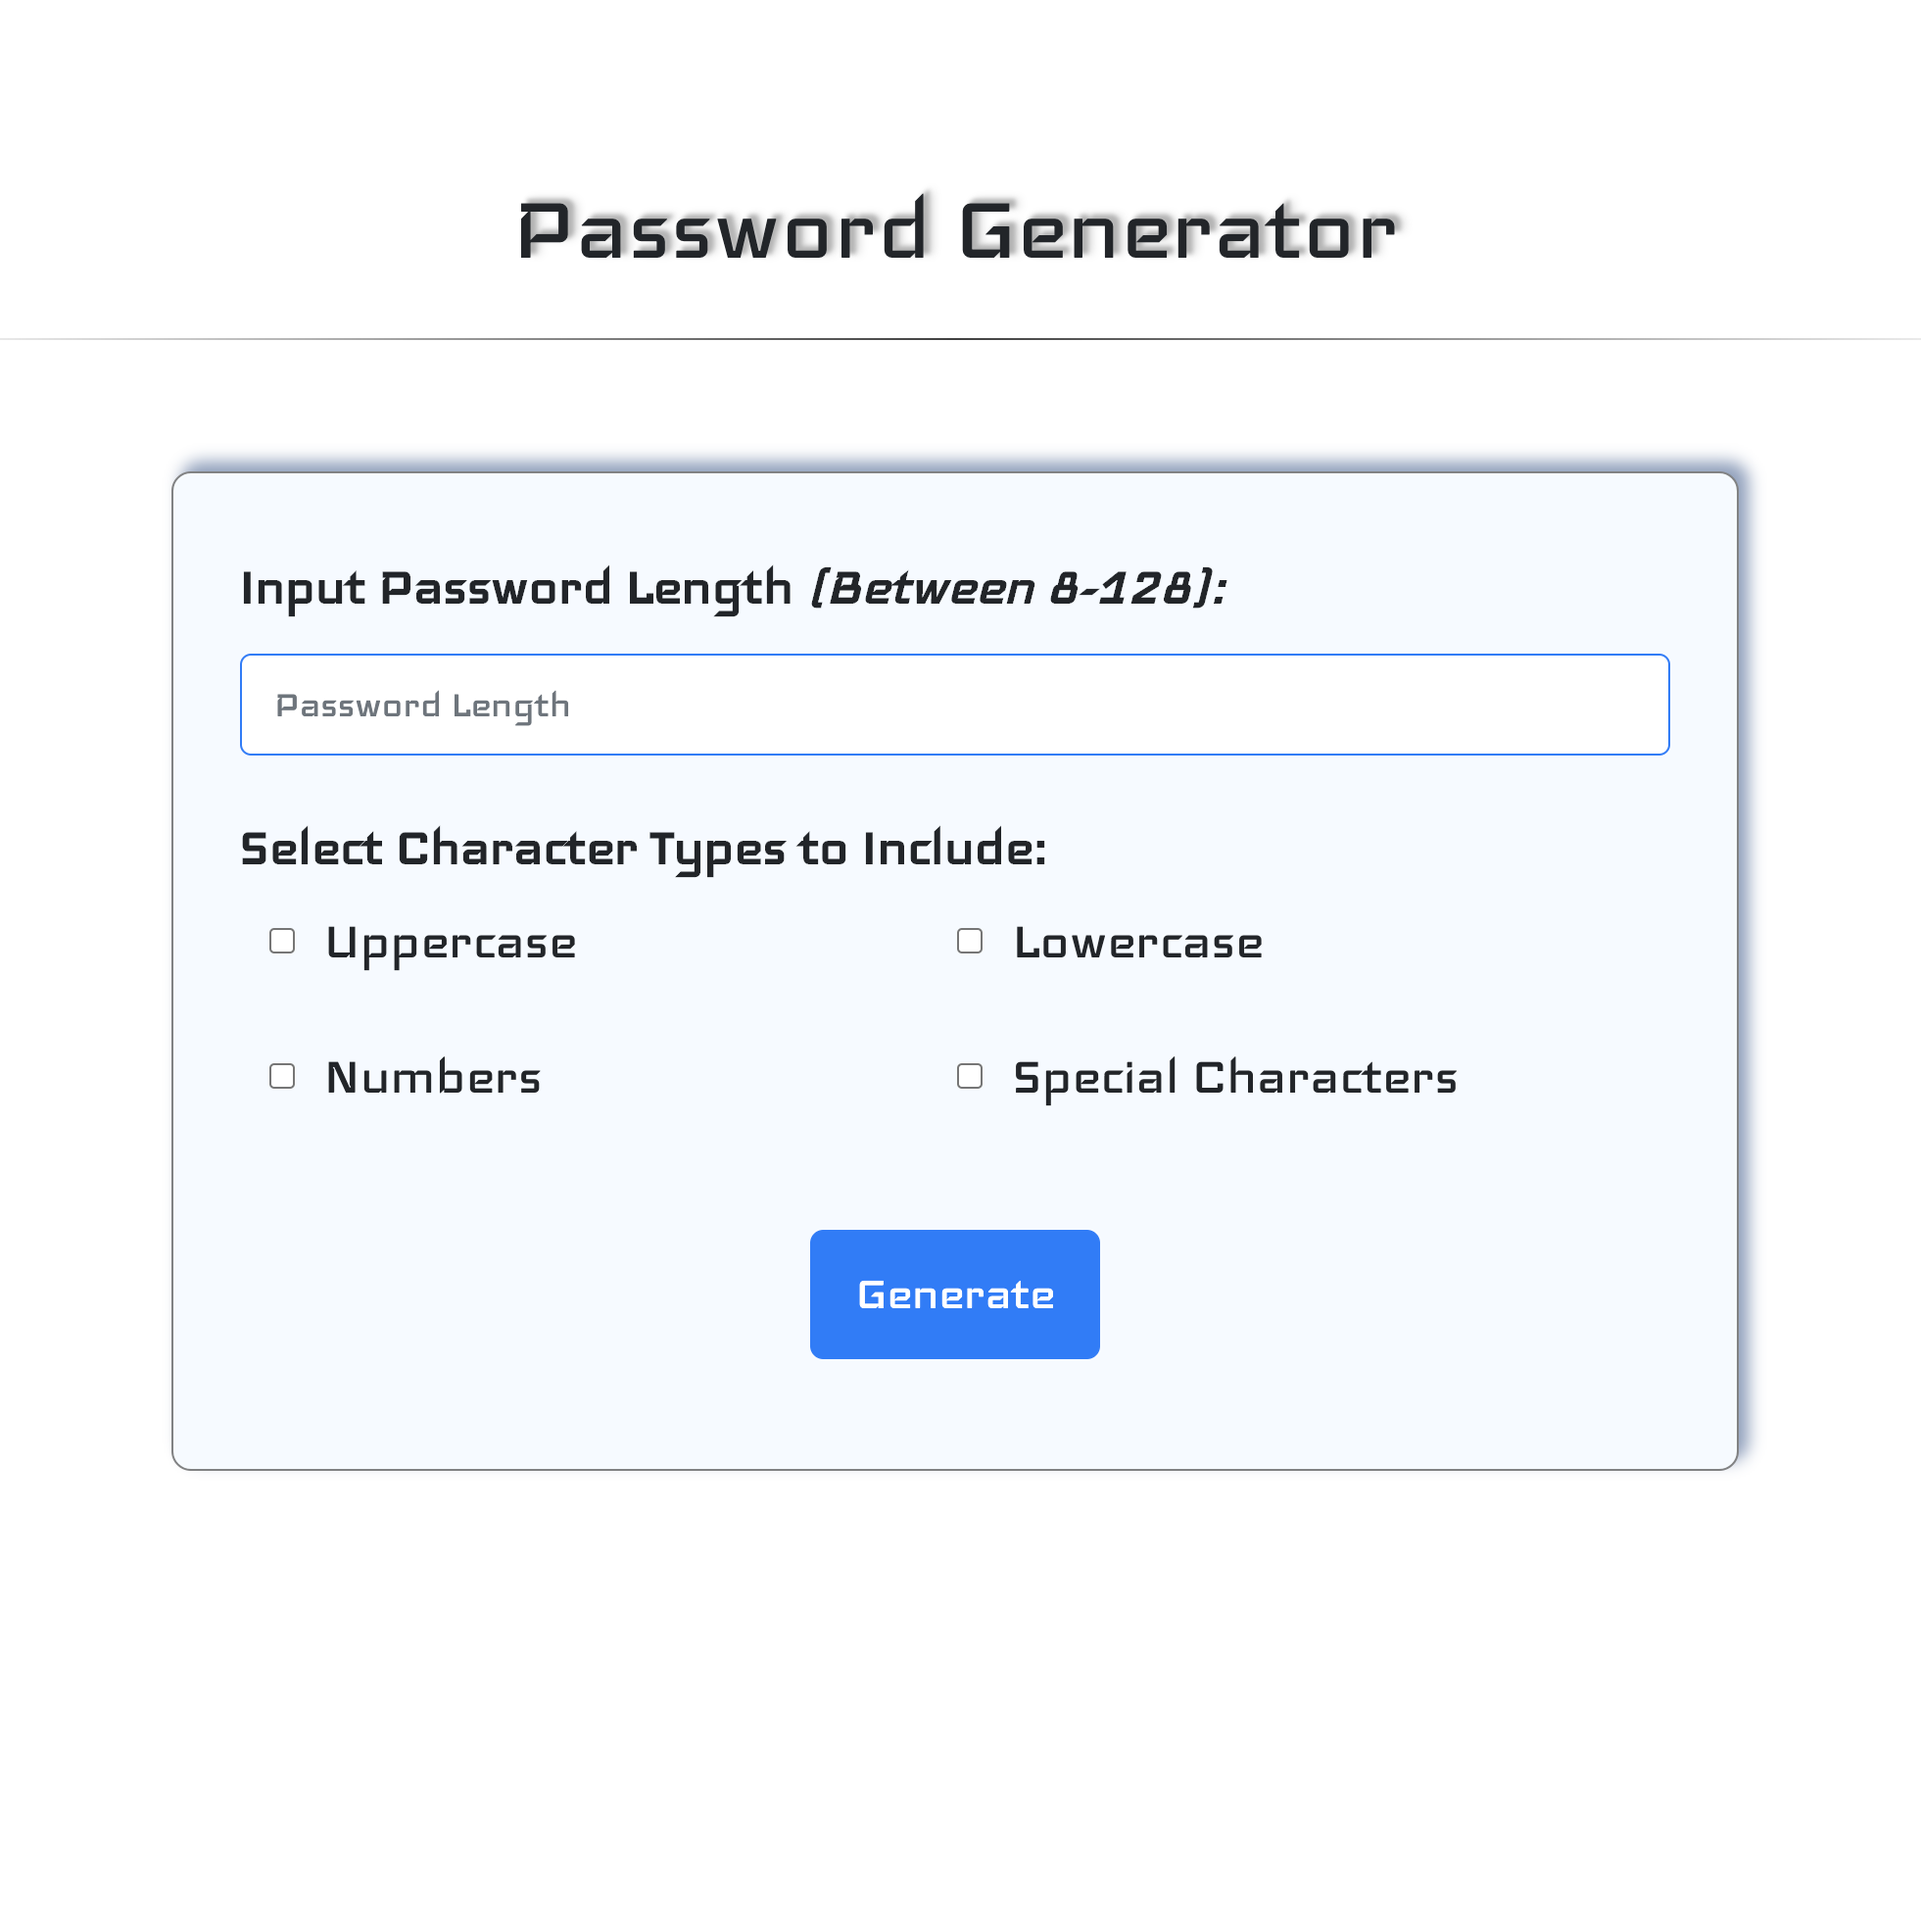
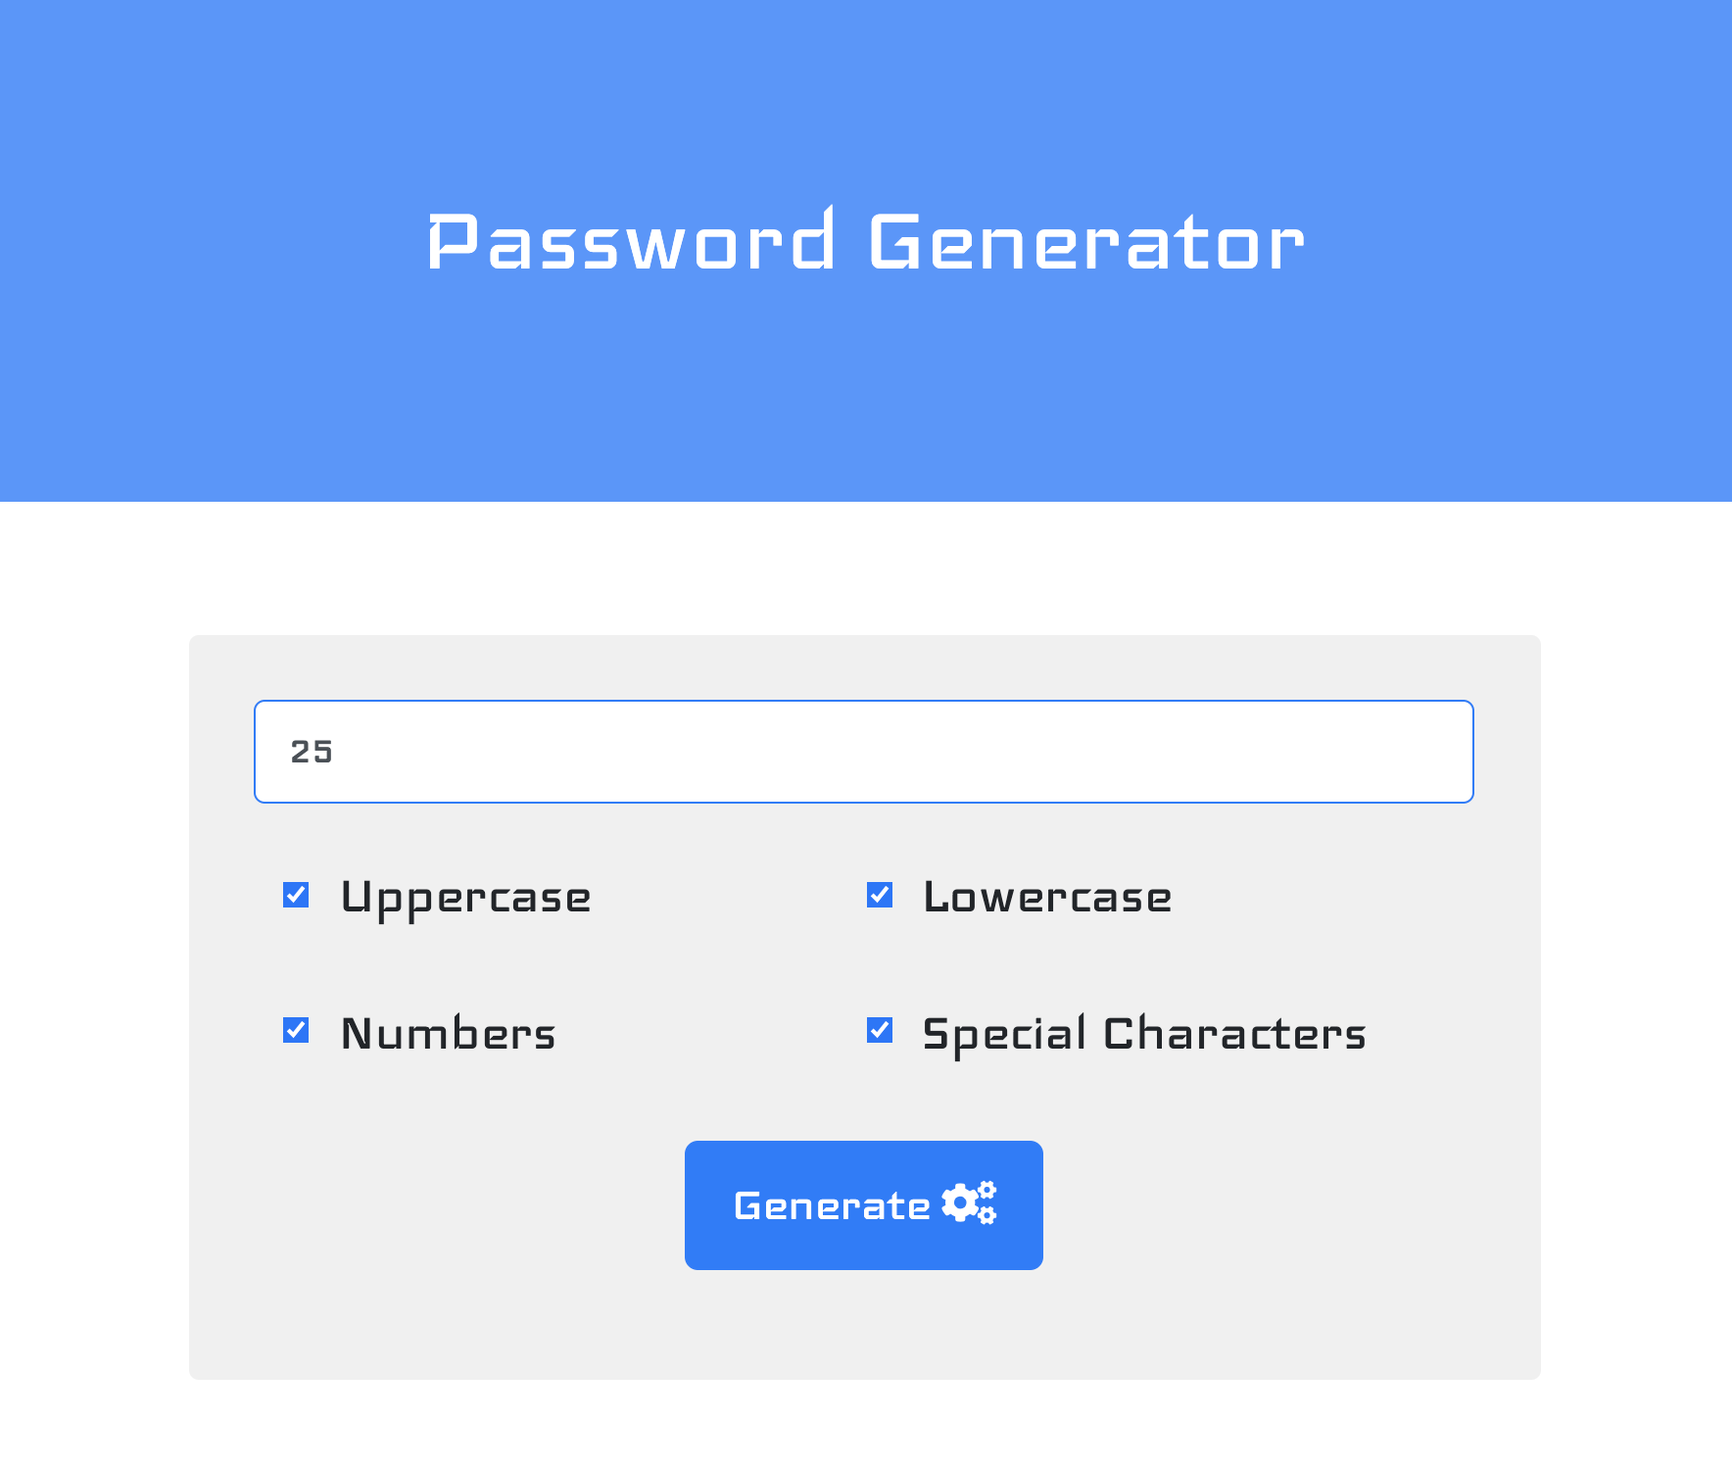
Simplified styles: Jumbotron header; no border; Added functionality for changing copy to copied when the button to copy password is clicked.

diff --git a/index.html b/index.html
@@ -22,22 +22,19 @@
     <title>Password Generator</title>
 </head>
 <body>
-    
+    <div class="jumbotron bg-primary">
+        <h1 class="display-5">Password Generator</h1>
+    </div>
+
     <section id="main-container" class="container">
-
-        <h1>Password Generator</h1>
-        <hr>
-
         <!--Main Content-->
-        <div id="form-container" class="container mt-5 p-md-4">
+        <div id="form-container" class="container mt-5 p-4">
             <!--This form takes user input preferences for password length and character types.-->
             <form>
-                <div class="form-group">
-                    <label for="inputLength"><strong>Input Password Length <i>(Between 8-128):</i></strong></label>
+                <div class="form-group mb-4">
                     <input id="inputLength" type="number" class="form-control border-primary" name="inputLength" placeholder="Password Length" min="8" max="128">
                 </div>
-                <div class="form-group">
-                    <label><strong>Select Character Types to Include:</strong></label>
+                <div class="form-group mb-0">
                     <div id="inputTypes" class="form-check">
                         <div class="container">
                             <div class="row">

diff --git a/assets/scripts/index.js b/assets/scripts/index.js
@@ -6,10 +6,12 @@ $(document).ready(function() {
 //PAGE ELEMENTS
 
 const submitButton = document.getElementById("submit-button");  
+const copyButton = document.getElementById("copy");
 
 //EVENTS
 
 submitButton.addEventListener("click", validateInputs); 
+copyButton.addEventListener("click", showCopied);
 
 //FUNCTIONS
 
@@ -261,4 +263,12 @@ function replaceCharacters(password, possibleCharacters, typesNotFound, arrayOfC
 
 }
 
+//When the copy button is clicked, change text to show this, then change back after 2 seconds.
+function showCopied() {
+    copyButton.innerText = "Copied!";
 
+    const timer = setInterval(function() {
+        copyButton.innerText = "Copy";
+        clearInterval(timer);
+    }, 2000);
+}

diff --git a/assets/stylesheets/style.css b/assets/stylesheets/style.css
@@ -5,8 +5,7 @@
 
 h1 {
     text-align: center; 
-    text-shadow: 3px -2px 2px rgba(180,180,180,1.0),
-                 5px -2px 4px rgba(220,220,220,1.0); 
+    color: #fff; 
 }
 
 hr {
@@ -20,6 +19,11 @@ i {
 }
 
 /*CLASS AND ID STYLES*/
+
+.jumbotron {
+    border-radius: 0px;
+    opacity: 0.8;
+}
 
 .form-check-label {
     position: relative; 
@@ -37,11 +41,9 @@ i {
 }
 
 #form-container {
-    box-shadow: 5px -5px 8px rgba(140,160,190,1.0); 
-    background-color: rgba(245,250,255,1.0); 
+    border-radius: 5px;
+    background-color: rgba(240,240,240,1.0); 
     padding-top: 10px; 
-    border: 1px solid rgba(100,100,100,0.8); 
-    border-radius: 10px; 
     max-width: 800px; 
 }
 
